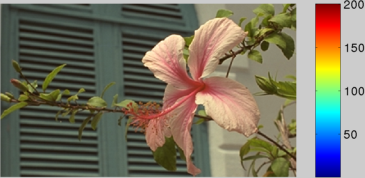
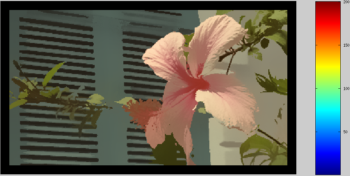
almost works

diff --git a/Assignment5/2/code/myDriver.m b/Assignment5/2/code/myDriver.m
@@ -2,12 +2,12 @@ function myDriver()
     addpath('../../common/export_fig/')
     addpath('../../common/')
     
-    [origX, filteredImage] = smoothing('../images/flower.png', 12, 20);
-    [~, segmentedImage] = segment(filteredImage, 100);
+    [origX, filteredImage] = smoothing('../images/flower.png', 12, 20,23);
+    %[~, segmentedImage] = segment(filteredImage, 100);
     save_image(double(origX)/255, '../images/flower_original.png', 1);
     save_image(double(filteredImage)/255, '../images/flower_filtered.png', 1);
-    save_image(double(segmentedImage)/255, '../images/flower_segmented.png', 1);
-    
+    %save_image(double(segmentedImage)/255, '../images/flower_segmented.png', 1);
+    ;sdk
     [origX, filteredImage] = smoothing('../images/parrot.png', 12, 20);
     [~, segmentedImage] = segment(filteredImage, 100);
     save_image(double(origX)/255, '../images/parrot_original.png', 1);

diff --git a/Assignment5/2/code/meanShiftClusteringWindowed.m b/Assignment5/2/code/meanShiftClusteringWindowed.m
@@ -1,7 +1,8 @@
 function [Iterations,Clustered] = meanShiftClusteringWindowed(x,Data,h,invSigma)
 %UNTITLED2 Summary of this function goes here
 %   Detailed explanation goes here
-     [Iterations, Clustered] = convergeForPoint(x,h,Data,invSigma);
+   
+    [Iterations, Clustered] = convergeForPoint(x,h,Data,invSigma);
    
   
 end
@@ -32,9 +33,11 @@ function [x_new] = updateX2(x,Data,sigmaInverse)
     %sigmaInverse = inv(Sigma);
     %K = exp(-sqrt((Y'*sigmaInverse*Y)/2))/(sqrt(2*pi)*det(Sigma));
     %t = diag(K)';
+    A = diag(sigmaInverse);
+    A = A(:, ones(1, size(Data,2)));
     
-    K = Y'*sigmaInverse*Y;
-    t =  (exp(-sqrt((diag(K)'/2)))/(sqrt(2*pi)))*det(sigmaInverse);
+    K = sum(Y'.*(A.*Y)',2);
+    t =  (exp(-(K'/2))/(sqrt(2*pi)))*det(sigmaInverse);
     
     T = t(ones(size(Data,1),1),:);
     %x_new = exp(-sqrt(sum(T.*Data,2)));

diff --git a/Assignment5/2/code/smoothing.m b/Assignment5/2/code/smoothing.m
@@ -22,9 +22,10 @@ function [origX, filteredImage] = smoothing(image, spatialSig, intensitySig, win
     for i = offset+1:size(origX, 1)-offset
         for j = offset+1:size(origX, 2)-offset
             temp = vec(i, j, :);
-            newVec(i, j, :) = meanShiftClusteringWindowed(temp(:)', vec, offset, invCovMatrix);
-            size(temp)
+            [woah,newVec(i, j, :)] = meanShiftClusteringWindowed(temp(:), vec, offset, invCovMatrix);
+            %size(temp)
         end
+       
     end
     
     filteredImage = zeros(size(origX, 1),size(origX, 2), 3);
